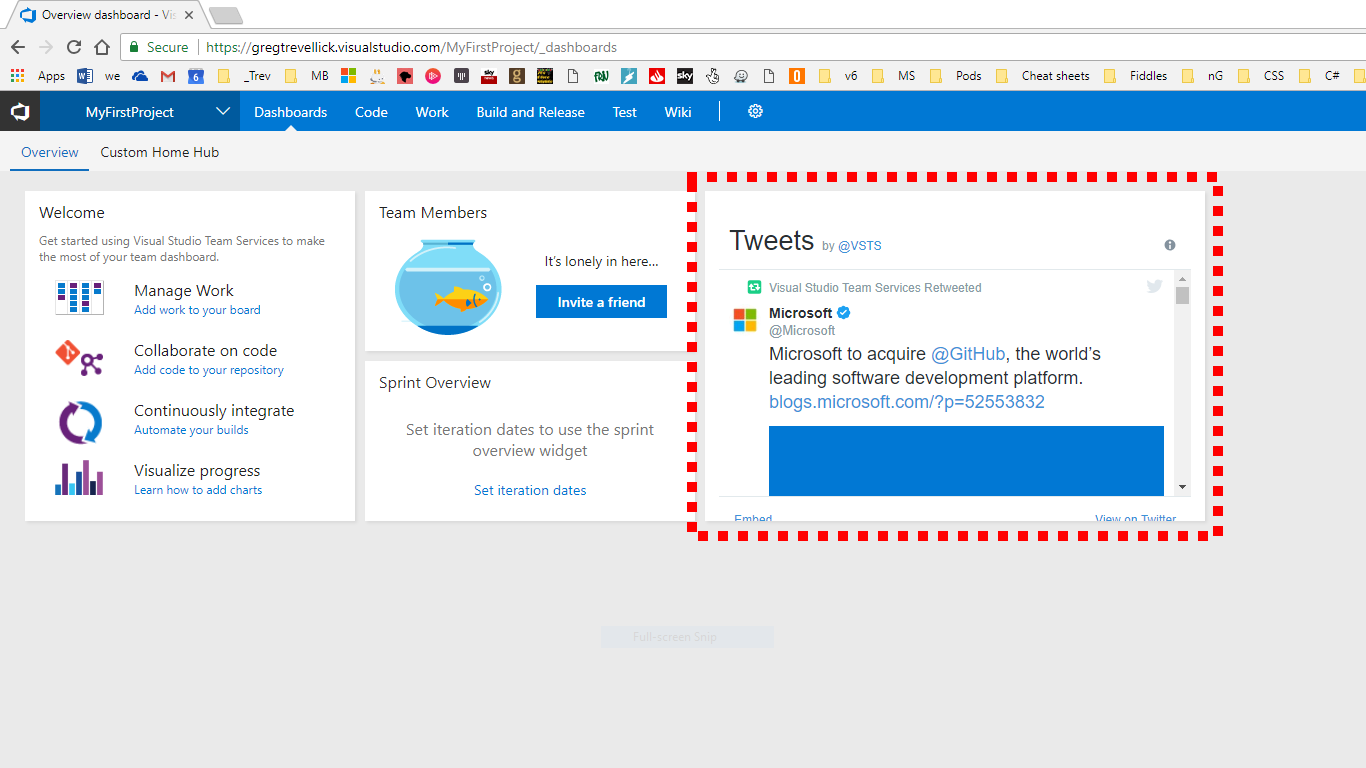
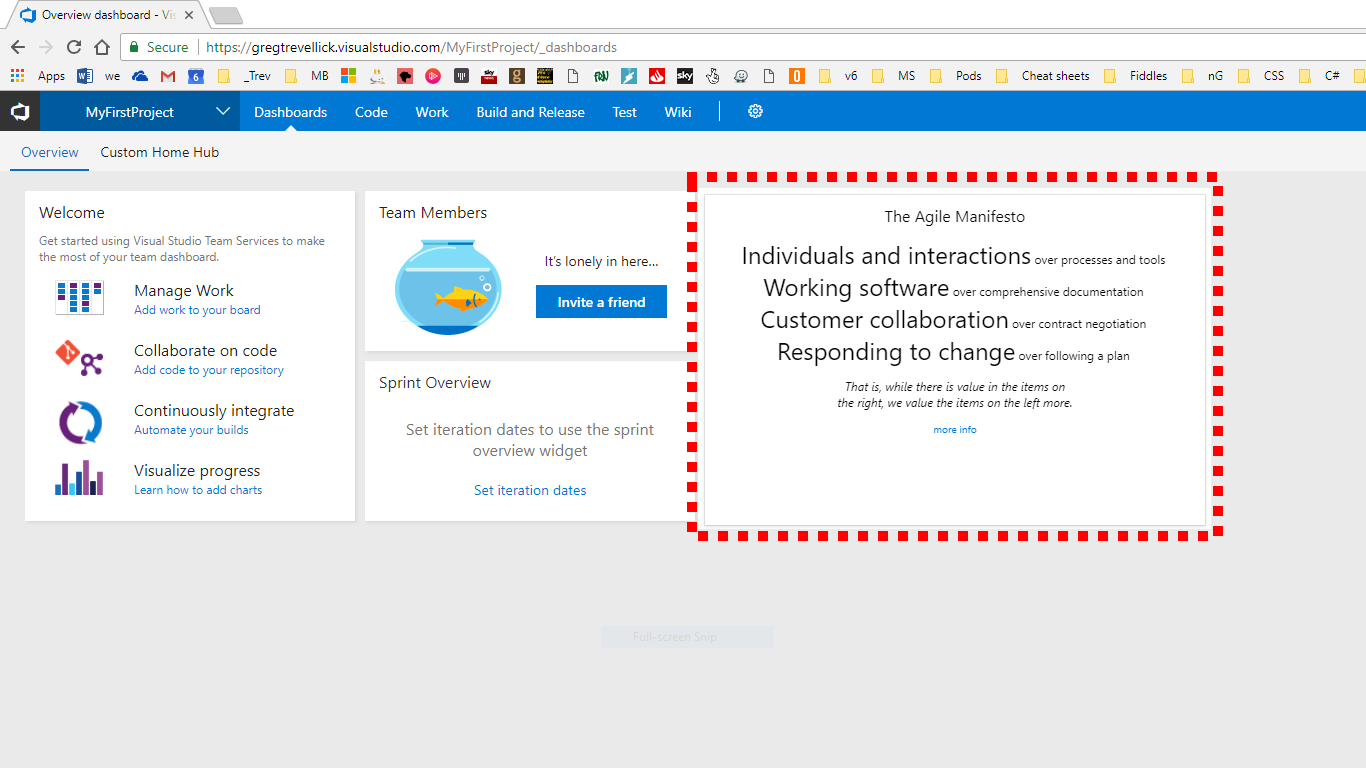
.

Changed region(s): [[0.5227, 0.25, 0.8609, 0.6875], [0.8609, 0.375, 0.8917, 0.4062]]

diff --git a/Src/AgileManifestoWidget/artefacts/Overview.md b/Src/AgileManifestoWidget/artefacts/Overview.md
@@ -1,4 +1,3 @@
-gregt
-the content of this file that appears on the Visual Studio Marketplace
+A dashboard widget to share the software development agile manifesto with your team.
 
 ![](https://github.com/GregTrevellick/VsixTwitterWidget/blob/master/Src/@VisualStudio/artefacts/Screenshot.png?raw=true)

diff --git a/Src/AgileManifestoWidget/VsmpReadMe.md b/Src/AgileManifestoWidget/VsmpReadMe.md
@@ -1,6 +1,6 @@
 [GitHubRepoPullRequestsURL]: https://github.com/GregTrevellick/AzureDevOpsAgileManifestoWidget/pulls
 
-gregt todo vsmpreadme.md
+A dashboard widget to share the software development agile manifesto with your team.
 
 ![](Screenshot.png)
 
